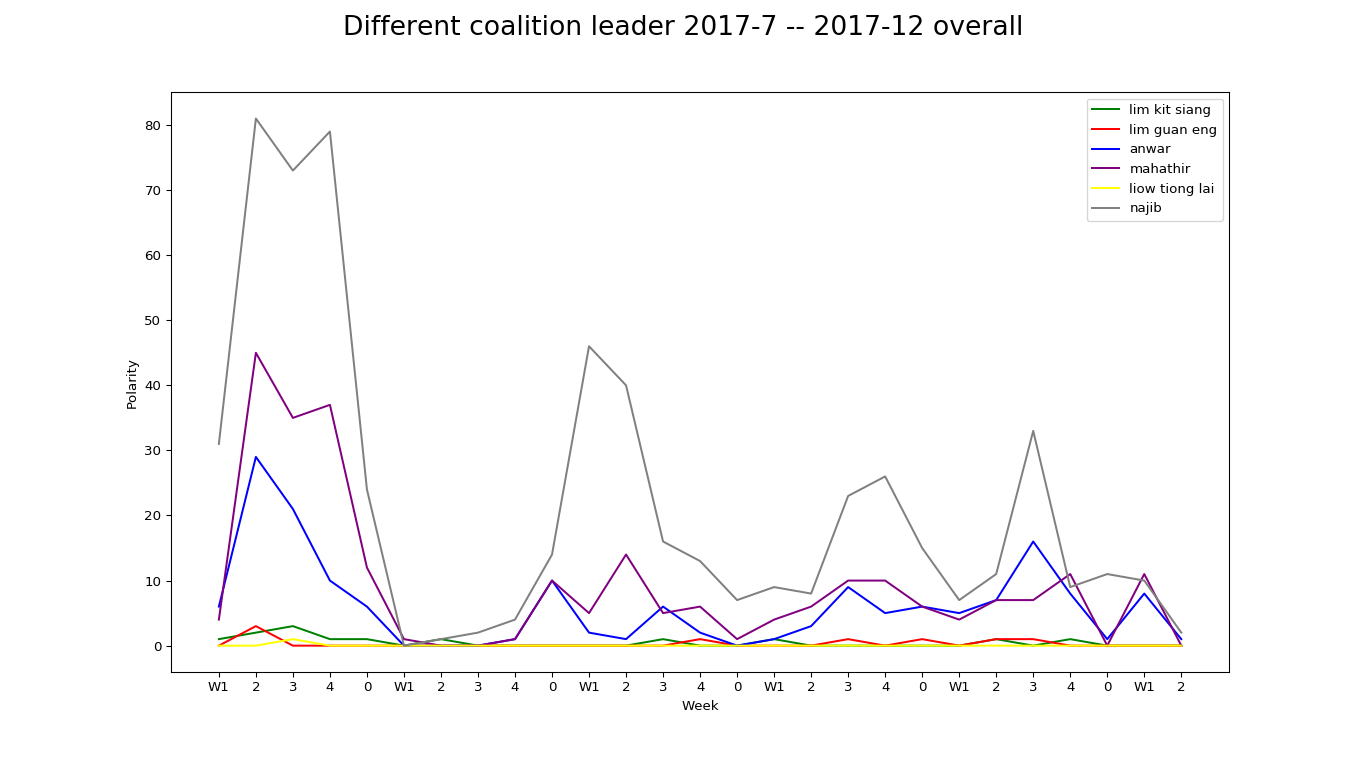
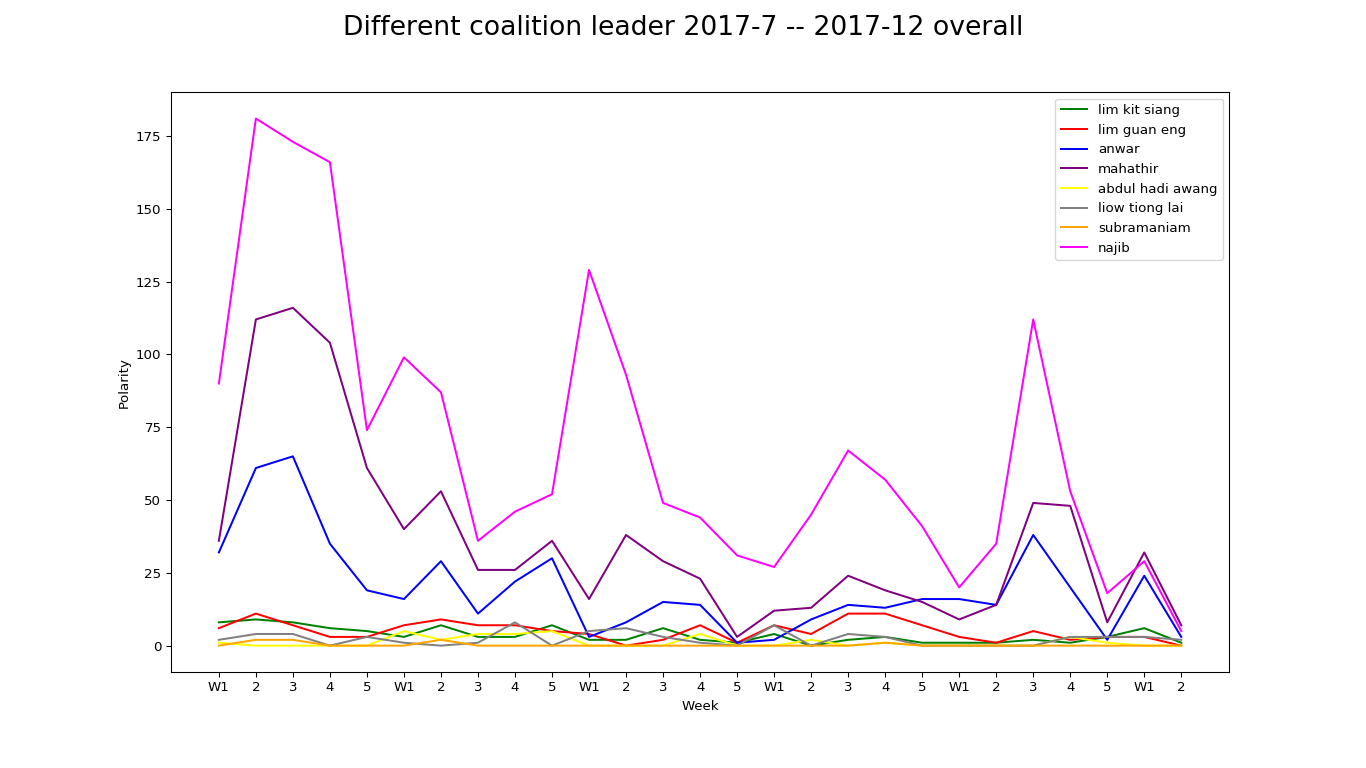
Graph plots for English and Chinese

diff --git a/visualization/GraphPlotter.py b/visualization/GraphPlotter.py
@@ -9,14 +9,14 @@ def plot_semiannual_graph(name, data, category, plot_kind="overall", save=False,
             plt.rcParams["font.family"] = "simhei"
         else:
             plt.rcParams["font.family"] = "sans-serif"
-    weeks = [i + 1 for i in range(0, len(data[list(data.keys())[0]][plot_kind]))]
+    weeks = [i for i in range(0, len(data[list(data.keys())[0]][plot_kind]))]
     dpi = 96
     plt.figure(figsize=(1366/dpi,768/dpi), dpi=dpi)
     plt.gca().set_color_cycle(['green', 'red', 'blue', 'purple', 'yellow', 'gray', 'orange', 'magenta'])
     
     plt.xlabel("Week")
     plt.ylabel("Polarity")
-    plt.xticks(weeks, ["W" + str((i % 5)) if i % 5 == 1 else str((i % 5)) for i in weeks])
+    plt.xticks(weeks, ["W" + str(1) if i % 5 == 0 else str((i % 5 + 1)) for i in weeks])
     
     graph_title = name + " " + plot_kind
     
